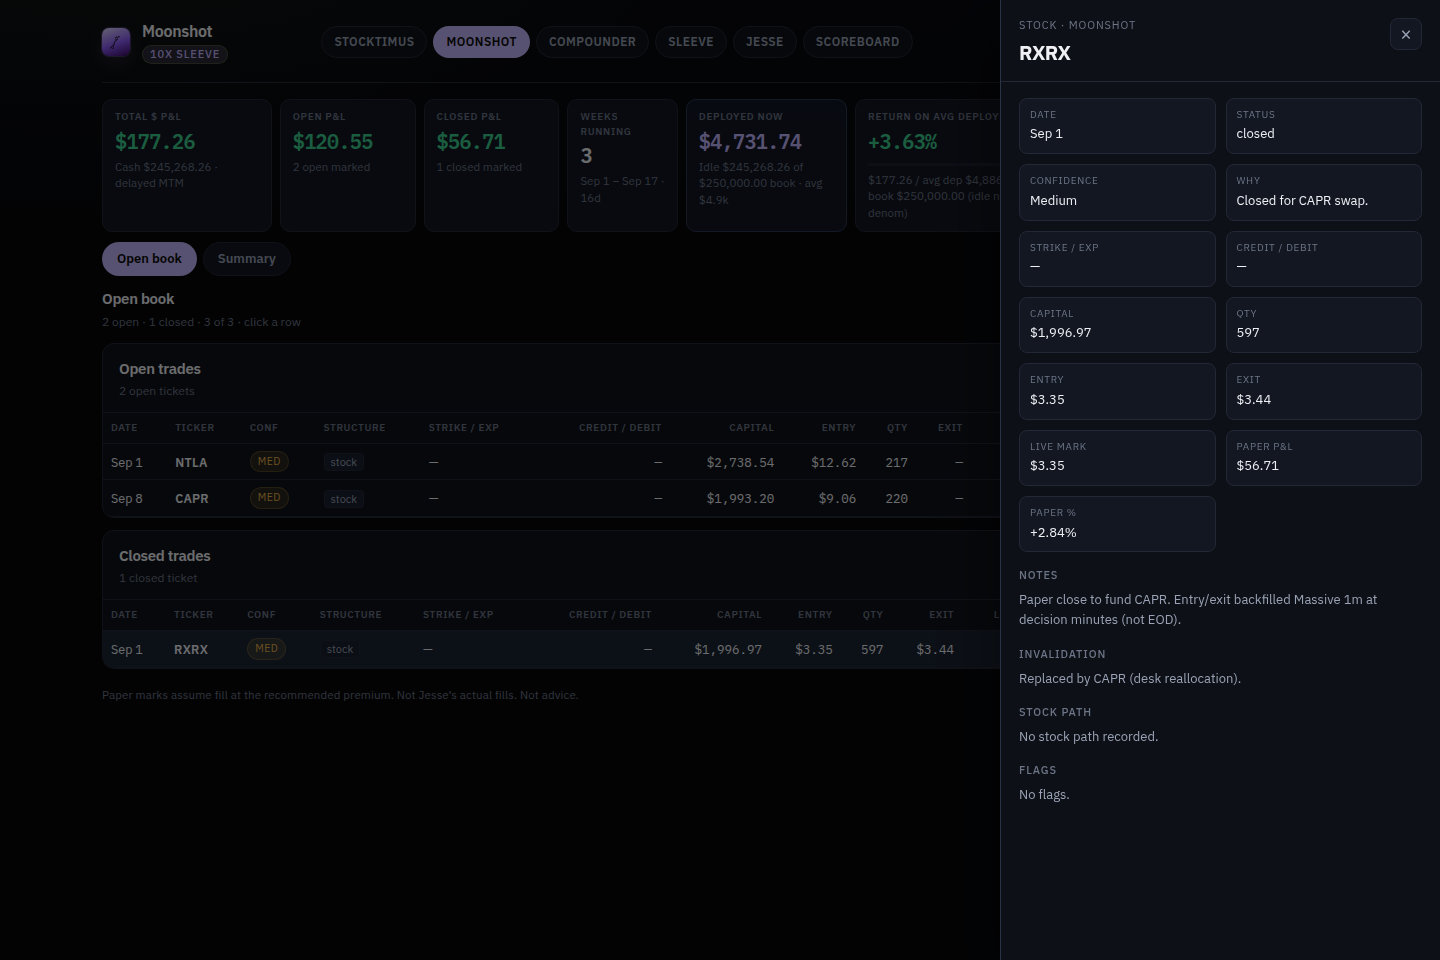
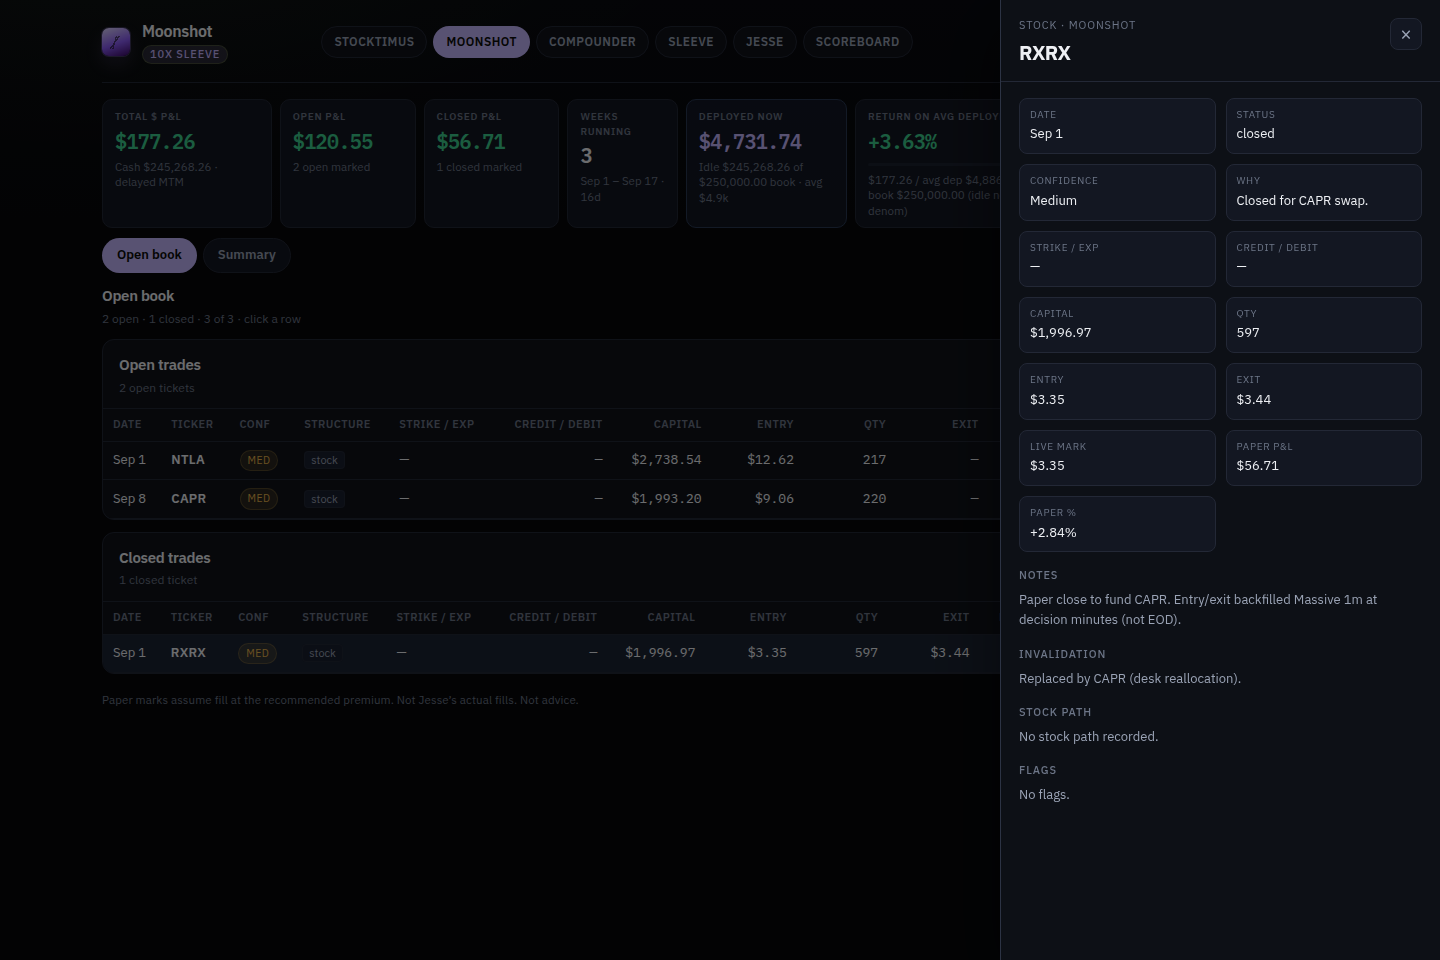
Keep desk chrome readable at desktop width
* Keep desk chrome readable at desktop width.

Stop the source pill from hard-clipping, give the 14-column trade tables room to stay legible, clamp scoreboard notes to one line, and share one KPI card scale across desks.

* Refresh desk drive evidence after the chrome pass.

* Record drive cleanup after the chrome pass.

---------

diff --git a/styles.css b/styles.css
@@ -25,6 +25,17 @@
   --sans: "IBM Plex Sans", system-ui, -apple-system, "Segoe UI", sans-serif;
   --mono: "IBM Plex Mono", ui-monospace, "SF Mono", Menlo, monospace;
   --r: 10px;
+  /* Shared KPI card scale. Shell cards (.js-stat) read the same tokens.
+     Desk palettes stay on their own colors; only structure and type match. */
+  --kpi-gap: 8px;
+  --kpi-pad: 10px 12px 9px;
+  --kpi-radius: 10px;
+  --kpi-k-size: 10px;
+  --kpi-k-track: 0.07em;
+  --kpi-v-size: 20px;
+  --kpi-v-track: -0.03em;
+  --kpi-s-size: 11.5px;
+  --kpi-s-lead: 1.35;
 }
 
 * { box-sizing: border-box; }
@@ -61,8 +72,10 @@ button { font: inherit; color: inherit; }
 }
 .desk-tabs {
   display: flex;
+  flex-wrap: wrap;
   gap: 6px;
-  flex: 1;
+  flex: 1 1 auto;
+  min-width: 0;
   justify-content: center;
 }
 .desk-tab {
@@ -117,8 +130,22 @@ button { font: inherit; color: inherit; }
   padding: 1px 7px 0;
   border-radius: 999px;
 }
-.top-meta { display: flex; align-items: center; gap: 14px; }
+.top-meta {
+  display: flex;
+  align-items: center;
+  gap: 14px;
+  min-width: 0;
+  max-width: 100%;
+  flex: 0 1 auto;
+}
 .source-pill {
+  display: inline-block;
+  min-width: 0;
+  max-width: 100%;
+  overflow: hidden;
+  text-overflow: ellipsis;
+  white-space: nowrap;
+  vertical-align: middle;
   font-size: 11px;
   letter-spacing: 0.04em;
   text-transform: uppercase;
@@ -128,7 +155,7 @@ button { font: inherit; color: inherit; }
   padding: 4px 8px;
   border-radius: 999px;
 }
-.asof { text-align: right; }
+.asof { flex: 0 0 auto; text-align: right; }
 .asof-label {
   display: block;
   font-size: 10px;
@@ -146,20 +173,23 @@ button { font: inherit; color: inherit; }
 .hero {
   display: grid;
   grid-template-columns: 1.0fr 0.8fr 0.8fr 0.65fr 0.95fr 1.25fr 0.85fr 0.65fr;
-  gap: 8px;
+  gap: var(--kpi-gap);
   margin: 16px 0 10px;
 }
-.hero .stat-v { font-size: 20px; }
+.hero .stat-v {
+  font-size: var(--kpi-v-size);
+  letter-spacing: var(--kpi-v-track);
+}
 .stat {
   background: var(--card);
   border: 1px solid var(--line);
-  border-radius: 10px;
-  padding: 10px 12px 9px;
+  border-radius: var(--kpi-radius);
+  padding: var(--kpi-pad);
   min-width: 0;
 }
 .stat-k {
-  font-size: 10px;
-  letter-spacing: 0.07em;
+  font-size: var(--kpi-k-size);
+  letter-spacing: var(--kpi-k-track);
   text-transform: uppercase;
   color: var(--mute);
   font-weight: 600;
@@ -171,7 +201,12 @@ button { font: inherit; color: inherit; }
   letter-spacing: -0.03em;
   line-height: 1.1;
 }
-.stat-s { margin-top: 6px; font-size: 11.5px; color: var(--mute); }
+.stat-s {
+  margin-top: 6px;
+  font-size: var(--kpi-s-size);
+  line-height: var(--kpi-s-lead);
+  color: var(--mute);
+}
 .up { color: var(--green); }
 .dn { color: var(--red); }
 .flat { color: var(--dim); }
@@ -311,26 +346,30 @@ button { font: inherit; color: inherit; }
 }
 .table-wrap { overflow-x: auto; }
 table.trades {
-  width: 100%;
+  width: max-content;
+  min-width: 100%;
   border-collapse: collapse;
-  font-size: 12.5px;
-  min-width: 920px;
+  font-size: 13px;
 }
 table.trades th {
   text-align: left;
-  font-size: 10px;
-  letter-spacing: 0.06em;
+  font-size: 11px;
+  letter-spacing: 0.04em;
   text-transform: uppercase;
   color: var(--mute);
   font-weight: 600;
-  padding: 8px 8px;
+  padding: 8px 10px;
   border-bottom: 1px solid var(--line);
   background: var(--elev);
   position: sticky; top: 0;
+  white-space: nowrap;
 }
-table.trades th.num, table.trades td.num { text-align: right; }
+table.trades th.num, table.trades td.num {
+  text-align: right;
+  min-width: 5.25rem;
+}
 table.trades td {
-  padding: 7px 8px;
+  padding: 8px 10px;
   border-bottom: 1px solid var(--line);
   white-space: nowrap;
 }

diff --git a/shell.css b/shell.css
@@ -1,20 +1,23 @@
 /* Shared desk shell. Clay & sage is the fallback so Jesse stays the template.
-   Sleeve (and any later live tab) overrides the --sh-* tokens on its view class. */
+   Sleeve (and any later live tab) overrides the --sh-* tokens on its view class.
+   KPI cards use the paper strip scale (--kpi-* in styles.css): same padding,
+   radius, 10px label, 20px value, 11.5px subtitle. Accent fill stays on --sh-*.
+   .js-roc is the two-up return/funding pair at that scale, not a larger hero.
+   .js-kpis stays eight columns for the Jesse week row. */
 .js-roc,
 .js-strip,
 .js-kpis {
   display: grid;
-  gap: 8px;
+  gap: var(--kpi-gap, 8px);
   margin: 16px 0 14px;
 }
 .js-roc { grid-template-columns: 1fr 1fr; margin-bottom: 8px; }
-.js-strip { grid-template-columns: repeat(5, minmax(0, 1fr)); }
+.js-strip { grid-template-columns: repeat(auto-fit, minmax(140px, 1fr)); }
 .js-kpis { grid-template-columns: repeat(8, minmax(0, 1fr)); margin-top: 10px; }
 .js-roc .js-stat {
   border-color: var(--sh-roc-line, rgba(47, 79, 63, 0.45));
   background: var(--sh-roc-bg, linear-gradient(180deg, rgba(47, 79, 63, 0.1), #fffaf4 48%));
 }
-.js-roc .js-v { font-size: 28px; }
 .js-subnav { display: flex; flex-wrap: wrap; gap: 6px; margin: 0 0 12px; }
 .js-view {
   font: inherit;
@@ -37,30 +40,31 @@
 .js-stat {
   background: var(--sh-card, #fffaf4);
   border: 1px solid var(--sh-line, #e2d3c2);
-  border-radius: 10px;
-  padding: 10px 12px 9px;
+  border-radius: var(--kpi-radius, 10px);
+  padding: var(--kpi-pad, 10px 12px 9px);
   min-width: 0;
 }
 .js-k {
-  font-size: 10px;
-  letter-spacing: 0.07em;
+  font-size: var(--kpi-k-size, 10px);
+  letter-spacing: var(--kpi-k-track, 0.07em);
   text-transform: uppercase;
   color: var(--sh-mute, #6d7c72);
   font-weight: 600;
 }
 .js-v {
-  margin-top: 4px;
-  font-size: 20px;
+  margin-top: 6px;
+  font-size: var(--kpi-v-size, 20px);
   font-weight: 600;
-  letter-spacing: -0.03em;
+  letter-spacing: var(--kpi-v-track, -0.03em);
+  line-height: 1.1;
   color: var(--sh-text, #24352c);
 }
 .js-v.up { color: var(--sh-up, #2f4f3f); }
 .js-v.dn { color: var(--sh-dn, #c65a3a); }
 .js-s {
-  margin-top: 4px;
-  font-size: 11px;
-  line-height: 1.35;
+  margin-top: 6px;
+  font-size: var(--kpi-s-size, 11.5px);
+  line-height: var(--kpi-s-lead, 1.35);
   color: var(--sh-mute, #6d7c72);
 }
 

diff --git a/index.html b/index.html
@@ -8,11 +8,11 @@
   <link rel="preconnect" href="https://fonts.googleapis.com">
   <link rel="preconnect" href="https://fonts.gstatic.com" crossorigin>
   <link href="https://fonts.googleapis.com/css2?family=IBM+Plex+Mono:wght@400;500;600&family=IBM+Plex+Sans:wght@400;500;600;700&display=swap" rel="stylesheet">
-  <link rel="stylesheet" href="styles.css?v=20260929s">
-  <link rel="stylesheet" href="scoreboard.css?v=20260929s">
-  <link rel="stylesheet" href="shell.css?v=20261002a">
+  <link rel="stylesheet" href="styles.css?v=20261002b">
+  <link rel="stylesheet" href="scoreboard.css?v=20261002b">
+  <link rel="stylesheet" href="shell.css?v=20261002b">
   <link rel="stylesheet" href="jesse.css?v=20260929s">
-  <link rel="stylesheet" href="sleeve.css?v=20260929s">
+  <link rel="stylesheet" href="sleeve.css?v=20261002b">
   <script>
     (function () {
       var h = (location.hash || "").replace(/^#/, "").toLowerCase();
@@ -270,9 +270,9 @@
     <div class="drawer-body" id="drawer-body"></div>
   </aside>
 
-  <script src="app.js?v=20260929s"></script>
-  <script src="scoreboard.js?v=20260918c"></script>
-  <script src="jesse.js?v=20261002a"></script>
-  <script src="sleeve.js?v=20260929s"></script>
+  <script src="app.js?v=20261002b"></script>
+  <script src="scoreboard.js?v=20261002b"></script>
+  <script src="jesse.js?v=20261002b"></script>
+  <script src="sleeve.js?v=20261002b"></script>
 </body>
 </html>

diff --git a/scoreboard.js b/scoreboard.js
@@ -165,6 +165,17 @@
     });
   }
 
+  function noteCell(note) {
+    const text = note ? String(note) : "";
+    if (!text) return '<td class="sb-note-cell"></td>';
+    const safe = escapeHtml(text);
+    return (
+      '<td class="sb-note-cell"><details class="sb-note-details">' +
+      '<summary title="' + safe + '"><span class="sb-note-clamp">' + safe + "</span></summary>" +
+      "</details></td>"
+    );
+  }
+
   function statusLabel(status) {
     if (status === "no_fill") return "no fill";
     if (status === "closed" || status === "open") return status;
@@ -198,7 +209,10 @@
     if (sub) sub.textContent = "X calls";
     doc.title = "Scoreboard · X calls";
     const pill = doc.getElementById("source-pill");
-    if (pill) pill.textContent = "x log";
+    if (pill) {
+      pill.textContent = "x log";
+      pill.title = "x log";
+    }
   }
 
   function renderRank(rows) {
@@ -246,7 +260,7 @@
         '<td><span class="sb-pill st-' + escapeHtml(st) + '">' + escapeHtml(statusLabel(st)) + "</span></td>" +
         '<td class="num ' + pctClass(ret) + '">' + (ret == null ? "—" : fmtPct(ret)) + "</td>" +
         "<td>" + escapeHtml(fmtWhen(call.called_at)) + "</td>" +
-        '<td class="sb-note-cell">' + escapeHtml(call.note || "") + "</td>" +
+        noteCell(call.note) +
         "</tr>"
       );
     }).join("");

diff --git a/scoreboard.css b/scoreboard.css
@@ -127,7 +127,25 @@ body.view-scoreboard #scoreboard-view { display: block !important; }
   letter-spacing: 0.04em;
 }
 .sb-stars.is-zero { color: var(--mute, #6d7688); }
-.sb-note-cell { color: var(--dim, #9aa3b5); max-width: 280px; }
+.sb-note-cell { color: var(--dim, #9aa3b5); width: 36ch; max-width: 36ch; }
+.sb-note-details { max-width: 36ch; }
+.sb-note-details summary {
+  cursor: pointer;
+  list-style: none;
+}
+.sb-note-details summary::-webkit-details-marker { display: none; }
+.sb-note-clamp {
+  display: block;
+  overflow: hidden;
+  text-overflow: ellipsis;
+  white-space: nowrap;
+  max-width: 36ch;
+}
+.sb-note-details[open] .sb-note-clamp {
+  white-space: normal;
+  overflow: visible;
+  text-overflow: unset;
+}
 .sb-pill {
   display: inline-block;
   font-size: 10px;

diff --git a/sleeve.js b/sleeve.js
@@ -169,6 +169,7 @@
       if (data) pill.textContent = "sleeve ledger";
       else if (state.error) pill.textContent = "sleeve ledger missing";
       else pill.textContent = "loading";
+      pill.title = pill.textContent;
     }
     const asof = $("asof");
     if (!asof) return;

diff --git a/jesse.js b/jesse.js
@@ -279,6 +279,7 @@
       if (data) pill.textContent = "cc tracker";
       else if (state.error) pill.textContent = "cc tracker missing";
       else pill.textContent = "loading";
+      pill.title = pill.textContent;
     }
     const asof = $("asof");
     if (!asof) return;

diff --git a/sleeve.css b/sleeve.css
@@ -84,8 +84,3 @@ html.view-sleeve .brand-text .sub {
 }
 
 .sleeve-view { margin-top: 4px; }
-html.view-sleeve .sl-strip { grid-template-columns: repeat(4, minmax(0, 1fr)); }
-
-@media (max-width: 1080px) {
-  html.view-sleeve .sl-strip { grid-template-columns: 1fr 1fr; }
-}

diff --git a/app.js b/app.js
@@ -1250,6 +1250,7 @@
     if (state.markKind === "robinhood") src += " · Robinhood live";
     else if (state.markKind === "delayed" || state.liveOk) src += " · delayed";
     pill.textContent = src;
+    pill.title = src;
   }
 
   function confPill(c, reason) {

diff --git a/.cursor/skills/verify-stocktimus-paper/features/scoreboard-tab.md b/.cursor/skills/verify-stocktimus-paper/features/scoreboard-tab.md
@@ -8,6 +8,7 @@ X call log. Header reads Scoreboard / X calls. Browser tab title is `Scoreboard 
 - Note: call log refreshes weekly; rank rerate is monthly when asked on the 1st
 - Rule: first post is the call; a later same-handle, same-ticker, same-direction post inside 7 days adds a star and is not a second graded call; rank is the average signed return of closed graded calls; n < 5 is Provisional; open calls and no-fills stay on the log and out of the average
 - One board per file: Stocktimus, Compounder, Moonshot, Scout. Each board has a rank table and a call log
+- Call-log notes stay on one line (ellipsis). The full note is the summary `title`, and the row expands on click
 - Rows with `example: true` show an **Example data** pill and are excluded from rank
 - Source pill reads `x log`
 
